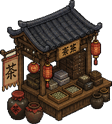
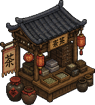
Mercado: puesto un 15% más pequeño (112->95px)
Reanclado (ox:47, oy:39) sobre la huella 2x2.

diff --git a/assets/js/hac-iso.js b/assets/js/hac-iso.js
@@ -20,7 +20,7 @@ const HacIso = (function () {
   const TOP_MARGIN = 132;             // hueco arriba para edificios altos, murallas y torres
   const PAD_X = 40;                   // margen lateral para murallas y paseo de ronda
   const SPRITE_BASE = 'assets/img/iso/';
-  const SPRITE_VER = '42';  // súbelo al regenerar los PNG (cache-busting)
+  const SPRITE_VER = '43';  // súbelo al regenerar los PNG (cache-busting)
 
   // ── Color helpers (para el placeholder) ─────────────────────────────────
   const { hexToRgb, clamp255: cl } = HacUtil;

diff --git a/haciendas.html b/haciendas.html
@@ -81,9 +81,9 @@
 <script src="assets/js/hac-solicitudes.js?v=1"></script>
 <script src="assets/js/hac-render.js?v=4"></script>
 <script src="assets/js/iso-sprites-meta.js?v=22"></script>
-<script src="assets/js/iso-sprites-extra.js?v=11"></script>
+<script src="assets/js/iso-sprites-extra.js?v=12"></script>
 <script src="assets/js/hac-flora.js?v=1"></script>
-<script src="assets/js/hac-iso.js?v=74"></script>
+<script src="assets/js/hac-iso.js?v=75"></script>
 <script src="assets/js/hac-dialog.js?v=2"></script>
 <script src="assets/js/hac-folk.js?v=47"></script>
 <script src="assets/js/haciendas.js?v=2"></script>

diff --git a/hacienda.html b/hacienda.html
@@ -40,9 +40,9 @@
 <script src="assets/js/hac-render.js?v=4"></script>
 <script src="assets/js/hac-pixel.js?v=3"></script>
 <script src="assets/js/iso-sprites-meta.js?v=22"></script>
-<script src="assets/js/iso-sprites-extra.js?v=11"></script>
+<script src="assets/js/iso-sprites-extra.js?v=12"></script>
 <script src="assets/js/hac-flora.js?v=1"></script>
-<script src="assets/js/hac-iso.js?v=74"></script>
+<script src="assets/js/hac-iso.js?v=75"></script>
 <script src="assets/js/hac-dialog.js?v=2"></script>
 <script src="assets/js/hac-folk.js?v=47"></script>
 <script src="assets/js/hac-snapshots.js?v=1"></script>

diff --git a/assets/js/iso-sprites-extra.js b/assets/js/iso-sprites-extra.js
@@ -12,5 +12,5 @@
   window.ISO_SPRITES_META['bld-campamento-0'] = { ox: 396, oy: 58, w: 720, h: 444, webp: true };
   // Mercado (3×3): puesto de té (茶) ilustrado. Vista única (no rota: spriteKey
   // cae a '-0' para cualquier rotación). El mercader lo dibuja hac-folk aparte.
-  window.ISO_SPRITES_META['bld-mercado-0'] = { ox: 56, oy: 46, w: 112, h: 124 };
+  window.ISO_SPRITES_META['bld-mercado-0'] = { ox: 47, oy: 39, w: 95, h: 105 };
 })();
